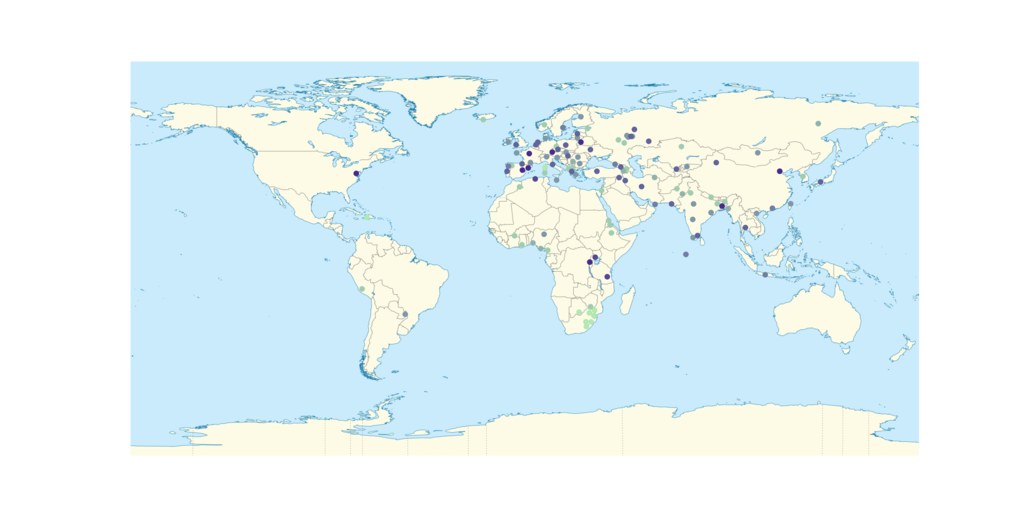
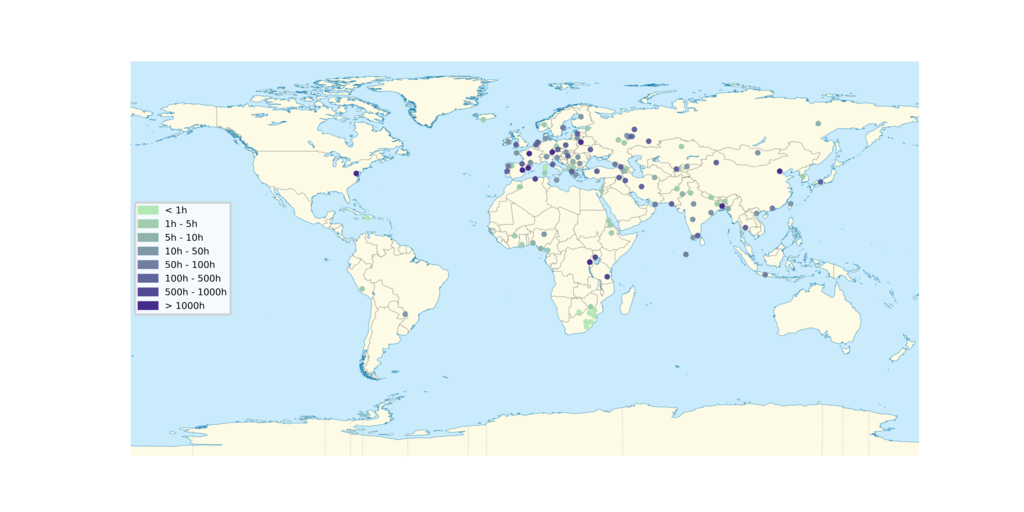
add legend

Changed region(s): [[0.125, 0.375, 0.25, 0.625]]

diff --git a/plot.py b/plot.py
@@ -3,6 +3,7 @@
 import sys, re
 import matplotlib.pyplot as plt
 from collections import defaultdict
+import matplotlib.patches as mpatches
 import json
 from iso2to3 import *
 
@@ -66,11 +67,21 @@ size_ranges = [
     (range(50, 100), 4),
     (range(100, 500), 5),
     (range(500, 1000), 6),
-    (range(1000, 100000000000000), 7),
+    (range(1000, 10000), 7),
 ]
 
 size_colours = ['#462b8c', '#524994', '#60649c', '#6f7ea2', '#7f98a8', '#8fb3ac' ,'#a0cdb0', '#b2e8b2']
 size_colours.reverse()
+
+handles = [mpatches.Patch(color='#b2e8b2', label='< 1h'),
+	   mpatches.Patch(color='#a0cdb0', label='1h - 5h'),
+	   mpatches.Patch(color='#8fb3ac', label='5h - 10h'),
+	   mpatches.Patch(color='#7f98a8', label='10h - 50h'),
+	   mpatches.Patch(color='#6f7ea2', label='50h - 100h'),
+	   mpatches.Patch(color='#60649c', label='100h - 500h'),
+	   mpatches.Patch(color='#524994', label='500h - 1000h'),
+	   mpatches.Patch(color='#462b8c', label='> 1000h')
+]
 
 sizes = defaultdict(list)
 #with open('languages-sizes.tsv') as fin:
@@ -117,6 +128,7 @@ for cvlang in cvlangs_json:
             break
 
 missing = []
+ax.legend(handles=handles, loc='center left', fontsize='4')
 for sz in sorted(sizes.keys()):
     cds = sizes[sz]
     valid_codes = [x for x in cds if x in langs]

diff --git a/README.md b/README.md
@@ -2,6 +2,8 @@
 
 ![](img/size_map_example.png)
 
+A simple map generation script to produce an approximate distribution and dataset size of languages in Common Voice.
+
 ## To generate a new map
 
 * Download the latest stats: `wget -q -O - "https://commonvoice.mozilla.org/api/v1/stats/languages" | json_pp > languages.json`
